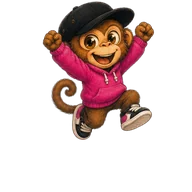
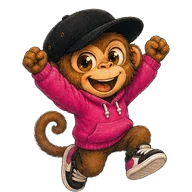
calendar: let caetano lean over the calendar instead of sitting in a box
The posts automáticos strip loses its container: Caetano, larger, leans
over the calendar's top edge, the strip's line is the calendar's border,
weekday names move inside the grid, and posts waiting for approval become
short lines with Aprovar inline. Mascot frames are normalized to one height
and anchored at the bottom so every pose meets the edge without jumping.

diff --git a/apps/vanda/src/components/autopilot/panel.tsx b/apps/vanda/src/components/autopilot/panel.tsx
@@ -2,8 +2,6 @@ import { useEffect, useRef, useState } from "react";
 import { Link } from "@tanstack/react-router";
 import { useMutation } from "convex/react";
 import { useQuery } from "convex-helpers/react/cache";
-import { ImageOff } from "lucide-react";
-import { Button } from "@vanda-studio/ui/components/button";
 import { Toggle } from "@vanda-studio/ui/components/toggle";
 import { cn } from "@vanda-studio/ui/lib/utils";
 import { api } from "../../convex/_generated/api";
@@ -79,16 +77,10 @@ function Strip({
     .toSorted((a, b) => a.scheduledFor - b.scheduledFor);
 
   return (
-    <section className="rounded-2xl border border-border bg-surface">
-      <div className="flex items-center gap-3 px-3 pt-4 pb-3 sm:pr-4">
-        {/* He stands out of his circle, a little taller than the strip, so he reads at a glance. */}
-        <span className="relative size-14 shrink-0">
-          <span className="absolute inset-x-0 bottom-0 h-12 rounded-full bg-brand-accent/15" />
-          <CaetanoFigure
-            mood={mood}
-            className="absolute -top-3 left-1/2 size-16 -translate-x-1/2"
-          />
-        </span>
+    <section className="flex items-end gap-4 border-b border-border pl-2">
+      {/* No box: Caetano leans over the calendar's top edge, which this border is. */}
+      <CaetanoFigure mood={mood} className="-mb-px size-24 sm:size-28" />
+      <div className="flex min-w-0 flex-1 flex-wrap items-end gap-x-6 gap-y-2 pb-3">
         <div className="min-w-0 flex-1" role="status" aria-live="polite">
           <p className="text-body font-semibold">Posts automáticos</p>
           <p
@@ -109,36 +101,7 @@ function Strip({
               </button>
             ) : null}
           </p>
-        </div>
-        {overview.enabled ? (
-          <label className="hidden items-center gap-2 border-r border-border pr-4 text-note text-text-3 sm:flex">
-            Pedir aprovação
-            <Toggle
-              checked={overview.approval === "required"}
-              disabled={approval.busy}
-              onCheckedChange={(checked) => approval.apply({ required: checked })}
-            />
-          </label>
-        ) : null}
-        {overview.connected ? (
-          <label className="flex items-center gap-2 pl-1 text-note text-text-3">
-            {overview.enabled ? "Ligado" : "Desligado"}
-            <Toggle
-              checked={overview.enabled}
-              disabled={enabled.busy}
-              onCheckedChange={(checked) => enabled.apply({ enabled: checked })}
-              aria-label="Posts automáticos"
-            />
-          </label>
-        ) : (
-          <Link to="/perfil" className="text-note font-medium underline">
-            Conectar Instagram
-          </Link>
-        )}
-      </div>
-      {waiting.length > 0 ? (
-        <ul className="border-t border-border px-3 py-1.5">
-          {waiting.map((slot) => (
+          {waiting.slice(0, 2).map((slot) => (
             <Waiting
               key={slot.slotId}
               accountId={accountId}
@@ -146,8 +109,40 @@ function Strip({
               onOpen={() => onOpen(slot.slotId)}
             />
           ))}
-        </ul>
-      ) : null}
+          {waiting.length > 2 ? (
+            <p className="text-note text-text-4">
+              e mais {waiting.length - 2} aguardando aprovação no calendário
+            </p>
+          ) : null}
+        </div>
+        <div className="flex items-center gap-4">
+          {overview.enabled ? (
+            <label className="hidden items-center gap-2 text-note text-text-3 sm:flex">
+              Pedir aprovação
+              <Toggle
+                checked={overview.approval === "required"}
+                disabled={approval.busy}
+                onCheckedChange={(checked) => approval.apply({ required: checked })}
+              />
+            </label>
+          ) : null}
+          {overview.connected ? (
+            <label className="flex items-center gap-2 text-note text-text-3">
+              {overview.enabled ? "Ligado" : "Desligado"}
+              <Toggle
+                checked={overview.enabled}
+                disabled={enabled.busy}
+                onCheckedChange={(checked) => enabled.apply({ enabled: checked })}
+                aria-label="Posts automáticos"
+              />
+            </label>
+          ) : (
+            <Link to="/perfil" className="text-note font-medium underline">
+              Conectar Instagram
+            </Link>
+          )}
+        </div>
+      </div>
     </section>
   );
 }
@@ -203,6 +198,7 @@ function useStageWithDone(live: WorkStage | null): WorkStage | null {
   return live ?? (done ? { kind: "done" } : null);
 }
 
+/** A post waiting for the owner: one line under the status, Aprovar inline. */
 function Waiting({
   accountId,
   slot,
@@ -215,32 +211,24 @@ function Waiting({
   const approve = useSetting(useMutation(api.autopilot.approveSlot));
 
   return (
-    <li className="flex items-center gap-3 py-1.5">
+    <p className="mt-1 flex min-w-0 items-center gap-2 text-body-sm">
+      <span className="size-2 shrink-0 rounded-full bg-amber" aria-hidden />
       <button
         type="button"
         onClick={onOpen}
-        className="flex min-w-0 flex-1 items-center gap-3 text-left"
+        className="min-w-0 truncate text-left text-text-2 hover:text-text"
         aria-label={`Ver o post de ${slotWhen(slot)}`}
       >
-        <span className="flex size-9 shrink-0 items-center justify-center overflow-hidden rounded-md bg-inset">
-          {slot.coverUrl ? (
-            <img src={slot.coverUrl} alt="" className="size-full object-cover" />
-          ) : (
-            <ImageOff className="size-3.5 text-text-5" aria-hidden="true" />
-          )}
-        </span>
-        <span className="min-w-0 flex-1 truncate text-note">
-          <span className="font-medium text-text">Aprovar · {slotWhen(slot)}</span>
-          <span className="text-text-3"> “{slot.hook}”</span>
-        </span>
+        <span className="font-medium text-text">{slotWhen(slot)}</span> “{slot.hook}”
       </button>
-      <Button
-        size="sm"
+      <button
+        type="button"
         disabled={approve.busy}
         onClick={() => approve.apply({ accountId, slotId: slot.slotId })}
+        className="shrink-0 font-medium text-brand-accent hover:underline"
       >
         Aprovar
-      </Button>
-    </li>
+      </button>
+    </p>
   );
 }

diff --git a/apps/vanda/src/routes/_dashboard.calendario.tsx b/apps/vanda/src/routes/_dashboard.calendario.tsx
@@ -154,7 +154,9 @@ function CalendarioPage() {
             </ActionTooltip>
           </header>
 
-          <AutopilotPanel accountId={activeAccount.id} onOpen={setOpenSlot} />
+          <div className="mt-4">
+            <AutopilotPanel accountId={activeAccount.id} onOpen={setOpenSlot} />
+          </div>
 
           <Agenda
             days={days}
@@ -165,14 +167,15 @@ function CalendarioPage() {
             }
           />
 
-          <div className="mt-6 hidden grid-cols-7 md:grid">
+          <div className="hidden grid-cols-7 overflow-hidden rounded-b-xl border border-t-0 border-border md:grid">
             {WEEKDAYS.map((weekday) => (
-              <div key={weekday} className="px-2 pb-2 text-note text-text-4">
+              <div
+                key={weekday}
+                className="border-b border-border px-2.5 py-2 text-note text-text-4"
+              >
                 {weekday}
               </div>
             ))}
-          </div>
-          <div className="hidden grid-cols-7 overflow-hidden rounded-xl border border-border md:grid">
             {days.map(({ date, key }, index) => (
               <div
                 key={key}
